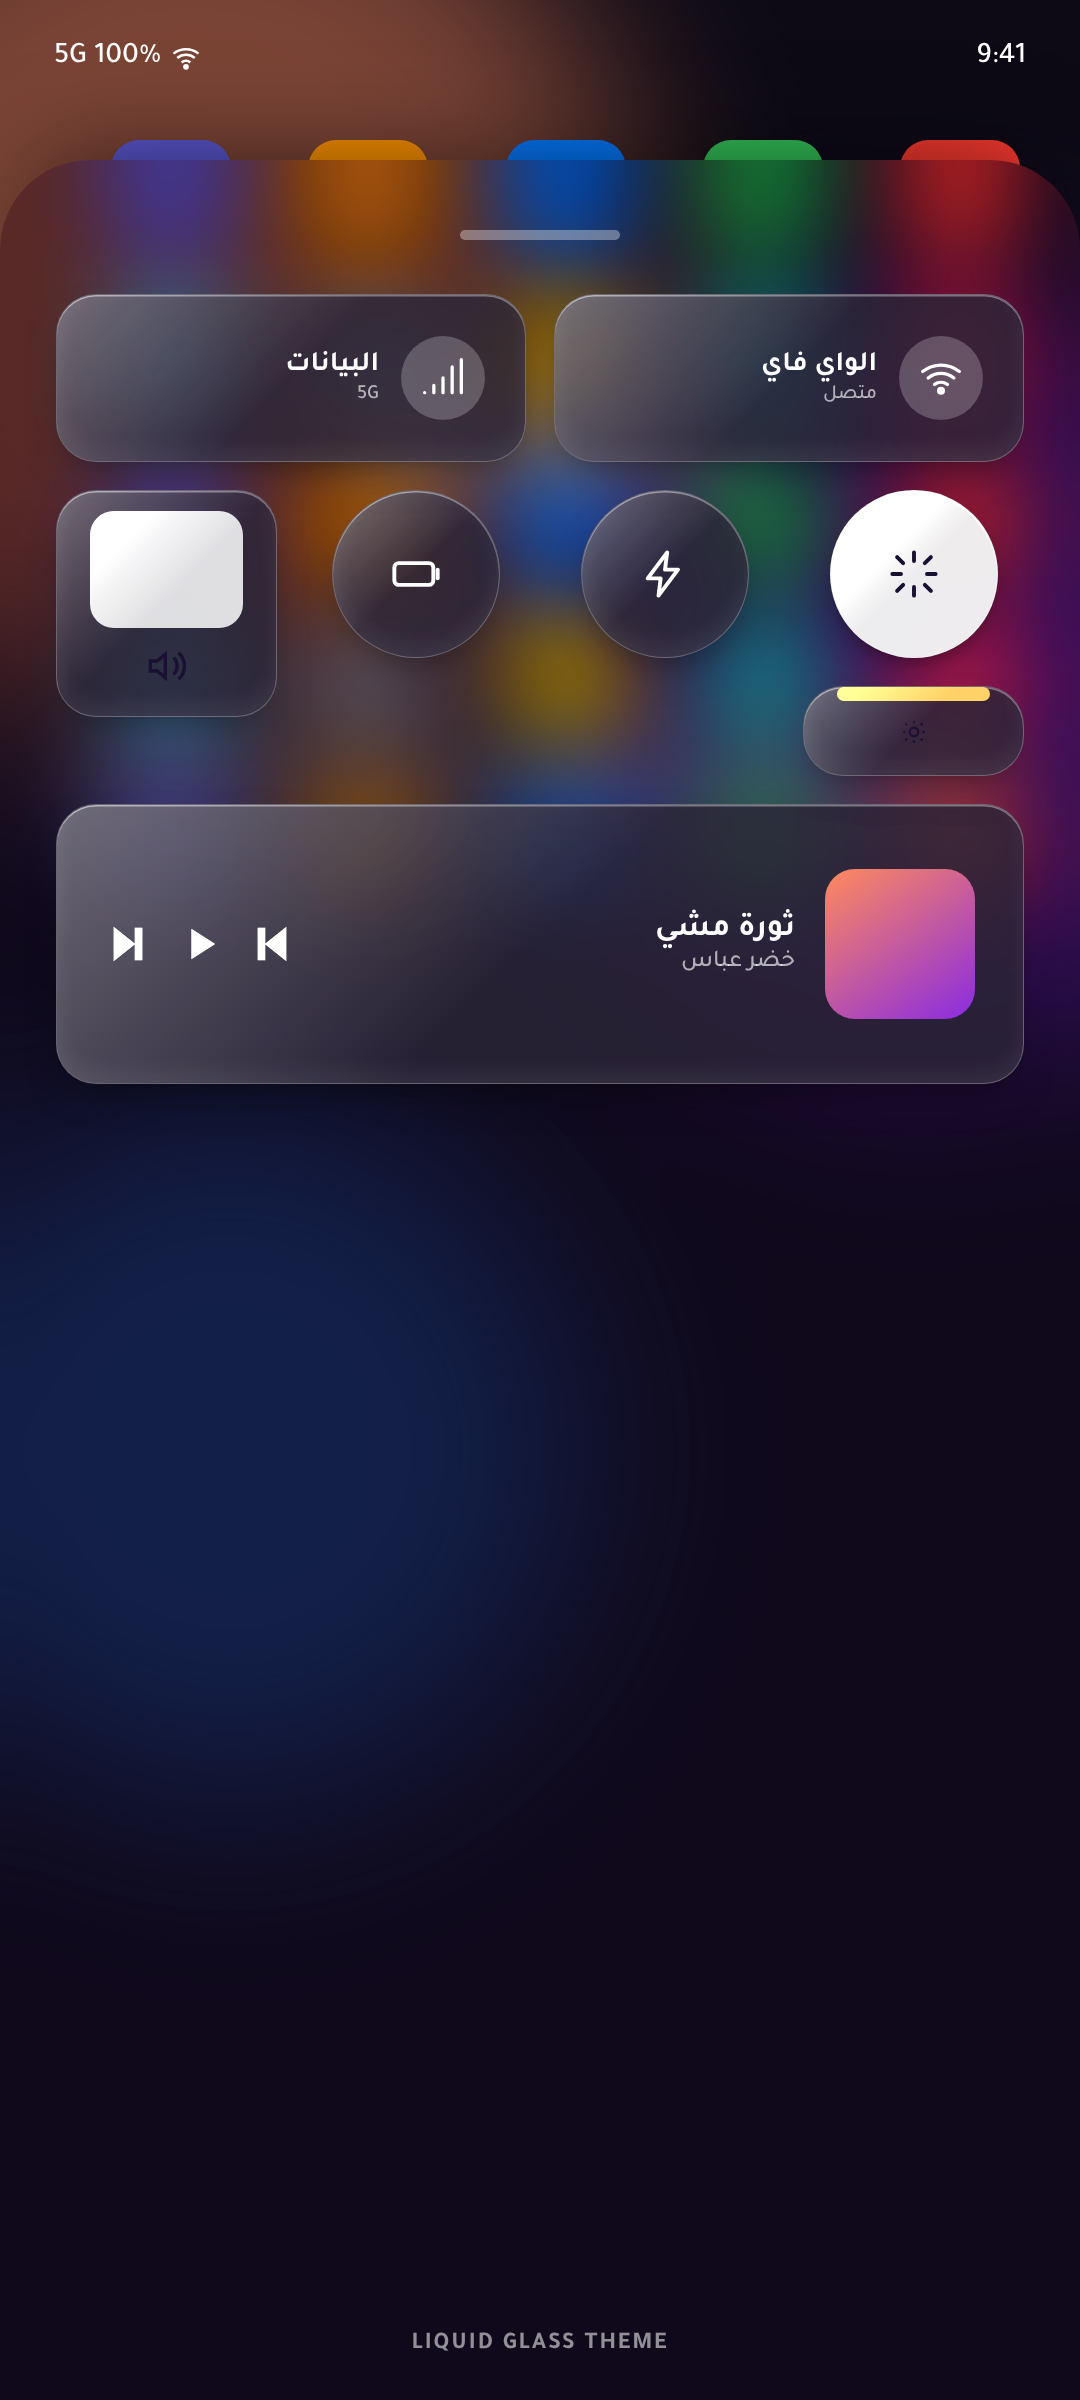
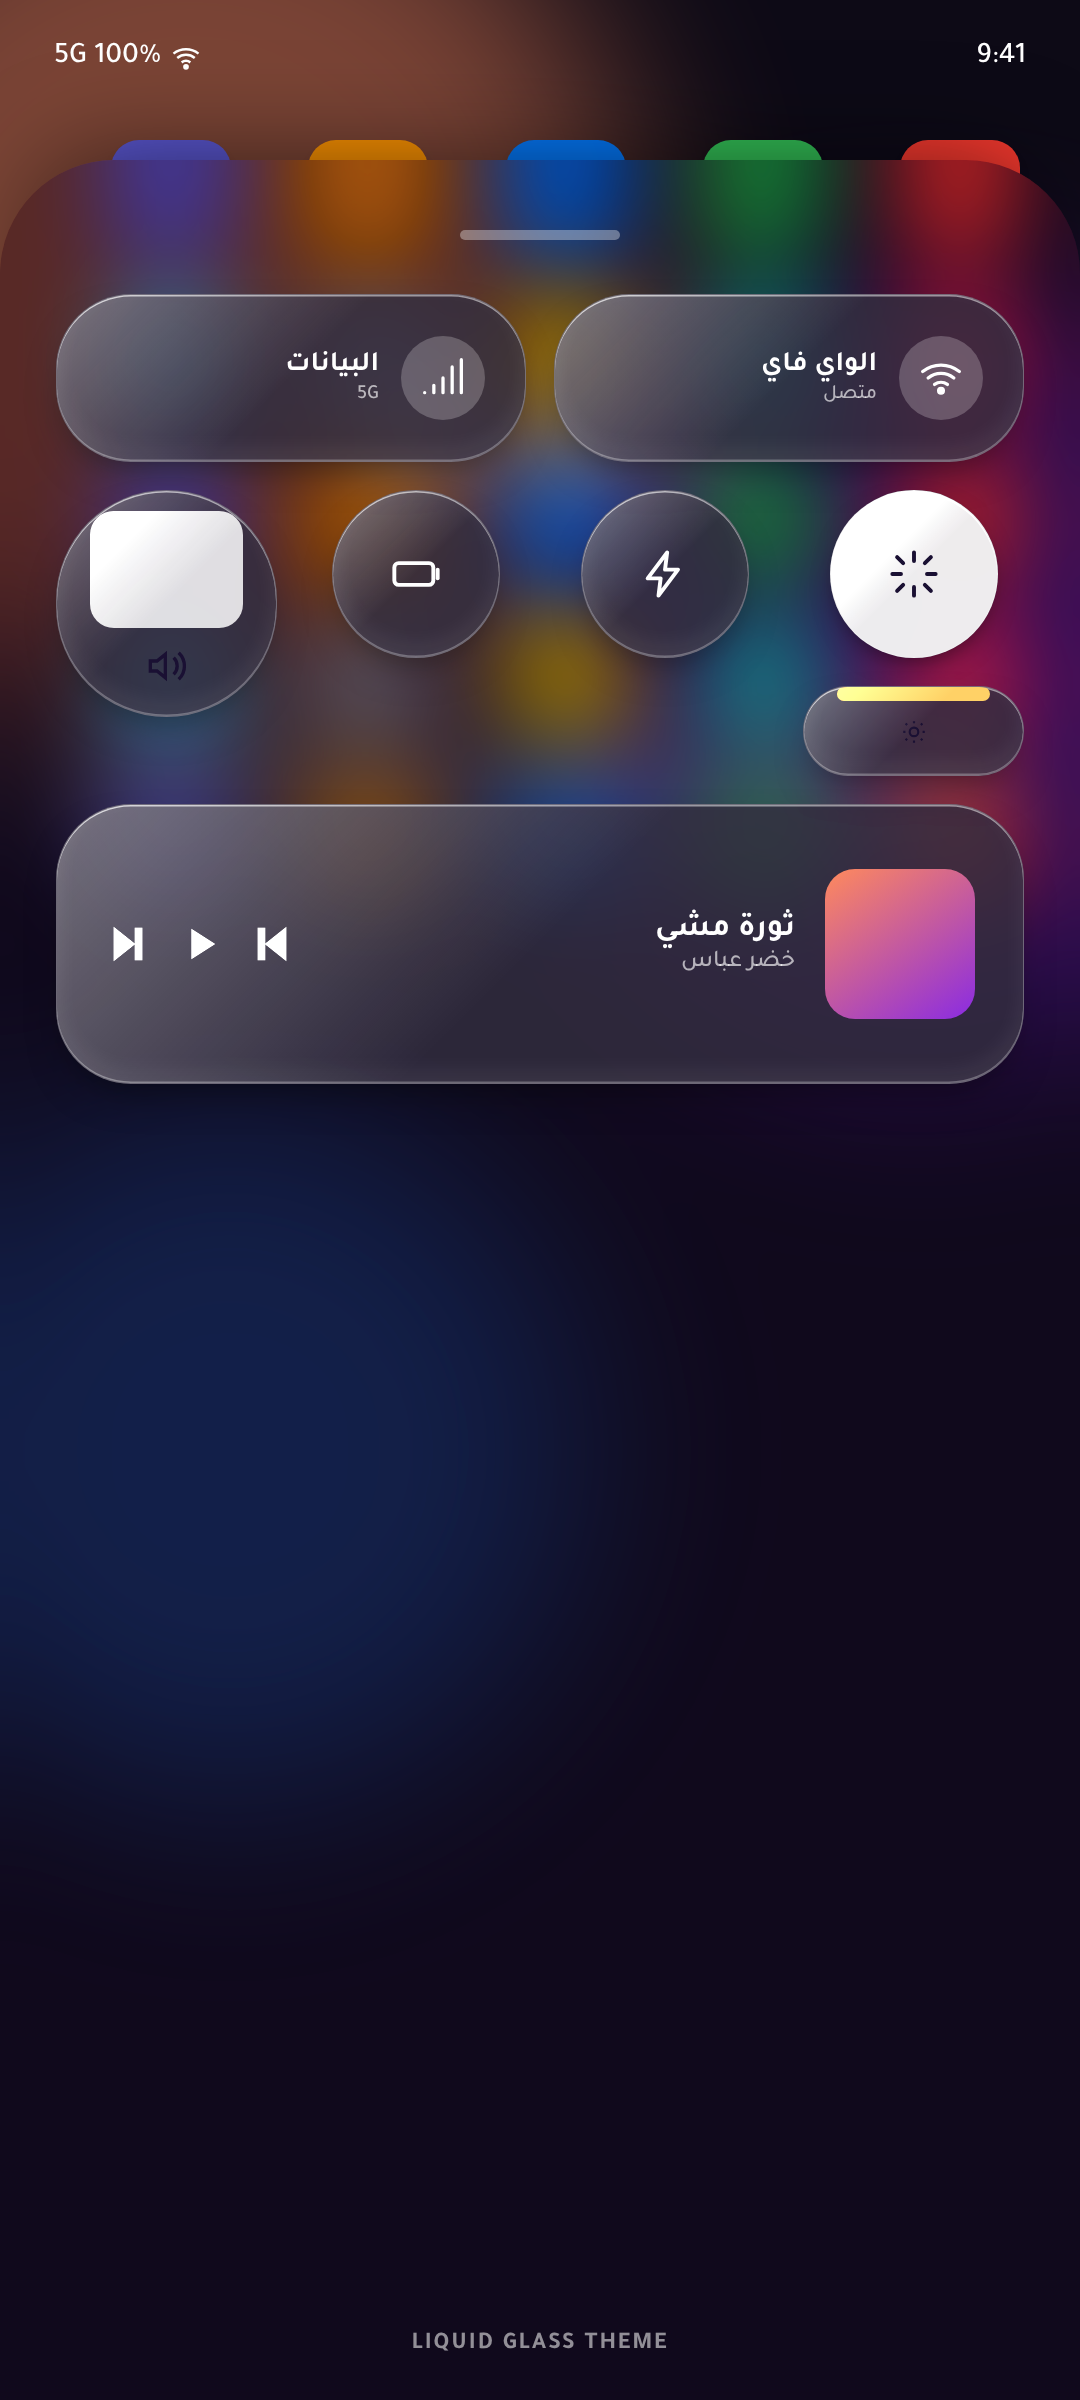
Liquid Glass control center: apply real MIUI corner-radius tokens (38/50/25dp)
Extracted from user-provided MIUI theme package (com.android.systemui,
miui.systemui.plugin, framework-miui-res) to match actual Xiaomi values
instead of estimates.

Claude-Session: https://claude.ai/code/session_019uqjmh2zsJCzjD8BR3oFuT

diff --git a/dablik/design/theme/scene2.html b/dablik/design/theme/scene2.html
@@ -19,10 +19,10 @@ html,body{width:1080px;height:2400px;overflow:hidden;background:#000;font-family
 .notif span{color:rgba(255,255,255,.7);font-size:24px}
 
 /* control center sheet */
-#cc{position:absolute;z-index:3;left:0;right:0;bottom:0;top:160px;transition:none;transition:none;background:rgba(20,10,30,.42);backdrop-filter:blur(46px) saturate(1.4);border-radius:90px 90px 0 0;padding:70px 56px 0;box-shadow:0 -40px 100px -40px #0008}
+#cc{position:absolute;z-index:3;left:0;right:0;bottom:0;top:160px;transition:none;transition:none;background:rgba(20,10,30,.42);backdrop-filter:blur(46px) saturate(1.4);border-radius:114px 114px 0 0;padding:70px 56px 0;box-shadow:0 -40px 100px -40px #0008}
 .handle{width:160px;height:10px;background:rgba(255,255,255,.35);border-radius:10px;margin:0 auto 54px}
 .grid{display:grid;grid-template-columns:repeat(4,1fr);gap:28px}
-.glass{background:rgba(255,255,255,.07);backdrop-filter:url(#liquidGlass);-webkit-backdrop-filter:url(#liquidGlass);border:1px solid rgba(255,255,255,.30);border-radius:40px;box-shadow:inset 0 1.5px 0 rgba(255,255,255,.36),inset 0 -10px 24px rgba(255,255,255,.07),0 18px 40px -16px #0008;position:relative;overflow:hidden}
+.glass{background:rgba(255,255,255,.1);backdrop-filter:url(#liquidGlass);-webkit-backdrop-filter:url(#liquidGlass);border:1px solid rgba(255,255,255,.30);border-radius:75px;box-shadow:inset 0 1.5px 0 rgba(255,255,255,.5),inset 0 -1.5px 0 rgba(255,255,255,.28),inset 0 -10px 24px rgba(255,255,255,.07),0 18px 40px -16px #0008;position:relative;overflow:hidden}
 .glass:before{content:"";position:absolute;inset:0;background:linear-gradient(135deg,rgba(255,255,255,.30),rgba(255,255,255,0) 50%);mix-blend-mode:plus-lighter}
 .c1{grid-column:span 2;grid-row:span 1;height:168px;display:flex;align-items:center;padding:0 40px;gap:22px}
 .c1 .ic{width:84px;height:84px;border-radius:50%;background:rgba(255,255,255,.22);display:grid;place-items:center;flex:none}
@@ -39,7 +39,7 @@ html,body{width:1080px;height:2400px;overflow:hidden;background:#000;font-family
 .media span{color:rgba(255,255,255,.65);font-size:24px}
 .media .ctrl{margin-right:auto;display:flex;gap:26px}
 .media .ctrl svg{width:46px;height:46px;stroke:#fff;fill:#fff}
-.slider{grid-row:span 2;width:100%;display:flex;flex-direction:column;align-items:center;justify-content:flex-end;padding-bottom:30px}
+.slider{grid-row:span 2;width:100%;display:flex;flex-direction:column;align-items:center;justify-content:flex-end;padding-bottom:30px;border-radius:150px!important}
 .slider .fill{width:70%;background:rgba(255,255,255,.85);border-radius:24px}
 .slider svg{width:40px;height:40px;stroke:#1a1033;fill:none;stroke-width:2;margin-top:18px}
 .label{position:absolute;bottom:40px;left:0;right:0;text-align:center;color:rgba(255,255,255,.55);font-size:24px;font-weight:700;letter-spacing:2px}
